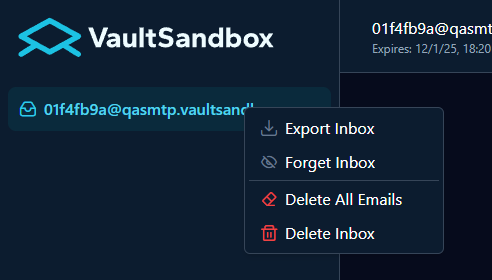
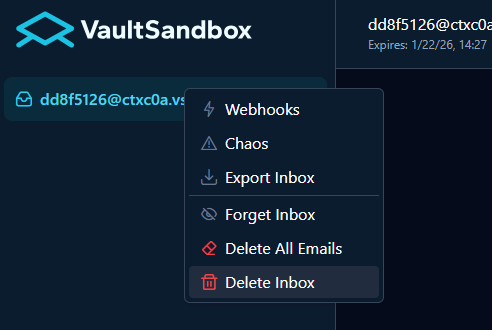
Frontend Version 0.9.0

diff --git a/src/content/docs/gateway/webui.md b/src/content/docs/gateway/webui.md
@@ -16,6 +16,8 @@ A web application provides a rich user interface for the VaultSandbox Gateway SM
 - **Real-Time Updates**: Server-Sent Events (SSE) for live email notifications
 - **Gateway Metrics**: Monitor SMTP server performance and health
 - **Webhooks**: Configure HTTP notifications for email events (global or per-inbox)
+- **Chaos Testing**: Configure chaos engineering modes per inbox for SMTP resilience testing
+- **Spam Analysis**: View spam scores and detailed spam indicators for received emails
 - **Dark/Light Theme**: Automatic theme switching based on system preferences
 - **Quantum-Safe Decryption**: Support for ML-KEM-768 encrypted email payloads
 - **Responsive Design**: Mobile-friendly interface built with PrimeNG and Tailwind CSS
@@ -110,6 +112,8 @@ Click any email to view full details:
 - **Attachments**: List of attachments with download support
 - **Links**: Extracted links with security warnings for external URLs
 - **Authentication Results**: Visual display of SPF, DKIM, DMARC, and reverse DNS
+- **Spam Analysis**: View spam score and detailed spam indicators
+- **Email Snapshot**: Capture a screenshot of the email view using the camera button
 
 ## Email Authentication Display
 
@@ -166,8 +170,10 @@ Create and manage multiple virtual inboxes to organize emails:
   - **Email Address**: Enter an alias (leave empty for a random email address)
   - **Domain**: Select from available domains (if you have more than one configured)
   - **TTL (Time to Live)**: Set the inbox lifetime in hours (this value will be remembered as your default)
+  - **Enable encryption**: Encrypt emails end-to-end so only you can read them
+  - **Enable email authentication (SPF, DKIM, DMARC)**: Perform sender verification checks on incoming emails
+  - **Enable spam analysis**: Analyze incoming emails for spam using Rspamd
 
-Emails matching the address pattern are automatically routed to the corresponding inbox
 
 ### Inbox Management
 
@@ -175,8 +181,10 @@ Emails matching the address pattern are automatically routed to the correspondin
 
 Right-click on any inbox in the sidebar to access the context menu with the following options:
 
+- **Webhooks**: Configure webhooks for this specific inbox
+- **Chaos**: Configure chaos engineering modes for SMTP testing on this inbox
 - **Export Inbox**: Export just the inbox alias and private key
-- **Forget Inbox**: Remove the inbox from your local storage (does not delete the inbox, from server)
+- **Forget Inbox**: Remove the inbox from your local storage (does not delete the inbox from server)
 - **Delete All Emails**: Remove all emails from the inbox while keeping the inbox itself
 - **Delete Inbox**: Permanently delete the inbox and all its emails
 
@@ -192,6 +200,7 @@ Click the menu icon in the top-left corner of the interface to access additional
 - **Webhooks**: Configure global webhooks that apply to all inboxes
 - **Settings**: Configure application preferences
 - **Light Mode**: Toggle between light and dark themes
+- **Docs**: Open the VaultSandbox documentation
 - **Logout**: Clear your API key and log out of the application
 
 ## Gateway Metrics
@@ -202,13 +211,19 @@ Monitor SMTP server performance and health:
 
 1. Click the **"Metrics"** button in the toolbar
 2. View real-time metrics in the **General Metrics** tab:
-   - **SMTP Connections**: Current and total connections
-   - **Emails Received**: Total emails processed
-   - **Uptime**: Server uptime and health status
+   - **Server Uptime**: Uptime duration and online status
+   - **Total Connections**: Connection count with rejected percentage
+   - **Emails Received**: Total emails with recipient count and average
+   - **Active Now**: Current active connections with processing time
+   - **Inbox Activity**: Created, active, and deleted inbox counts
+   - **Email Authentication**: SPF and DKIM pass/fail statistics
 3. View storage information in the **Storage Metrics** tab:
    - **Memory Usage**: Current email storage space used
    - **Free Space**: Available storage capacity
    - **Cleanup Schedule**: When automatic cleanup occurs
+4. View webhook statistics in the **Webhook Metrics** tab:
+   - **Webhook Deliveries**: Total webhook requests sent
+   - **Success/Failure Rates**: Delivery success statistics
 
 ### SSE Console
 
@@ -261,7 +276,10 @@ Access global webhooks from the application menu. These webhooks apply to all in
 
 ![Inbox Webhooks](/images/gateway/webui/inbox-webhooks.png)
 
-Right-click an inbox in the sidebar and select **Webhooks** to configure webhooks for that specific inbox only.
+Access inbox-specific webhooks in two ways:
+
+- Right-click an inbox in the sidebar and select **Webhooks**
+- Click the **bolt icon** in the header bar next to the inbox email address
 
 ### Creating a Webhook
 
@@ -273,6 +291,34 @@ Right-click an inbox in the sidebar and select **Webhooks** to configure webhook
 - **Payload Template**: Choose the payload format (Default Raw JSON or custom templates)
 - **Filters**: Add rules to filter which emails trigger the webhook
 - **Require email authentication**: Only trigger for emails that pass SPF/DKIM/DMARC checks
+
+## Chaos Testing
+
+Configure chaos engineering modes to simulate email delivery failures and test application resilience.
+
+### Accessing Chaos Configuration
+
+![Inbox Chaos](/images/gateway/webui/inbox-chaos.png)
+
+Access chaos configuration for an inbox in two ways:
+
+- Right-click an inbox in the sidebar and select **Chaos**
+- Click the **warning icon** in the header bar next to the inbox email address
+
+### Chaos Configuration Dialog
+
+![Chaos Configuration](/images/gateway/webui/chaos-config.png)
+
+- **Enable Chaos**: Master toggle to enable or disable chaos for this inbox
+- **Auto-disable after**: Set an expiration date to automatically disable chaos
+- **Connection Drop**: Drop SMTP connections before sending a response. Configure probability (0-100%) and graceful close (FIN vs RST)
+- **Greylisting**: Reject initial delivery attempts, accept on retry (tests retry logic)
+- **Random Errors**: Return random SMTP error codes (4xx temporary or 5xx permanent)
+- **Blackhole**: Accept emails but silently discard them
+- **Latency Injection**: Add artificial delays to SMTP responses
+- **Disable All**: Quickly disable all chaos modes
+
+For detailed configuration options and API usage, see [Chaos Engineering](/gateway/chaos-engineering/).
 
 ## Theme Management
 
